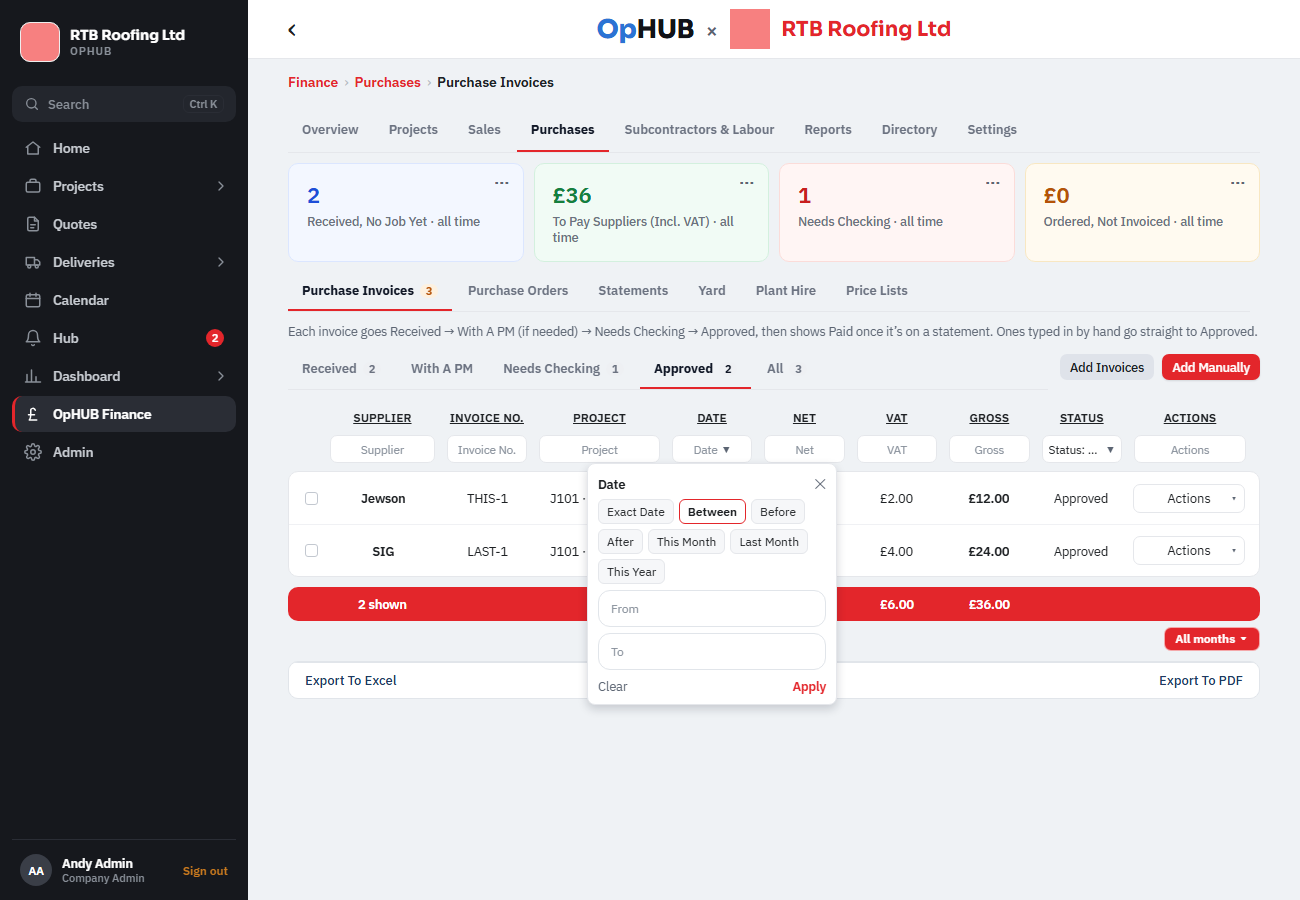
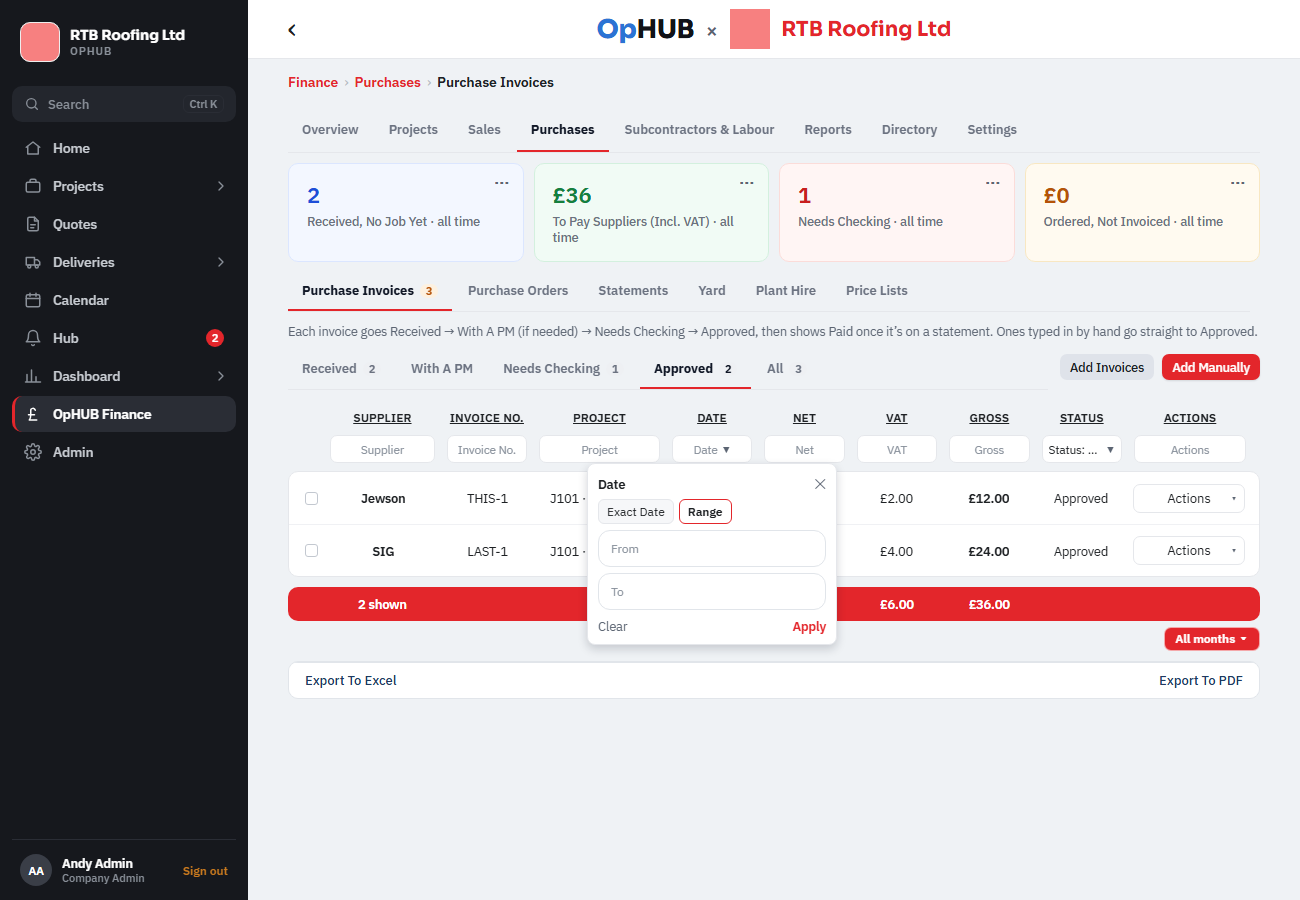
Finance tables (Andy, 6 Nov): the date filter is just Exact Date or Range (From / To; leave one blank for from / up to). Received's Status column has a tick-the-ones-you-want drop-down filter like the other tabs (filters can match a column's own words when the cell is a drop-down).
Claude-Session: https://claude.ai/code/session_012KhfNvBEbifMJmPdX7yZfp

Changed region(s): [[0.4308, 0.56, 0.6462, 0.8089]]

diff --git a/app-native/src/components/FinTable.tsx b/app-native/src/components/FinTable.tsx
@@ -18,16 +18,17 @@ import { base, useTheme } from '@/theme/theme';
 // pick: a one-choice drop-down filter, each choice with its own test (e.g. date ranges); the first is "any".
 // total: what the totals bar shows under this column. off: hidden until ticked in ⚙ Columns; lock: can't be hidden.
 // date: the row's date (yyyy-mm-dd) for the date filter. A date column (its heading says Date, Due, Hire…, and it sorts by
-// yyyy-mm-dd) gets it by itself (Andy, 6 Nov 2026: filter a date by an exact day, between two, before, after, this month…).
+// yyyy-mm-dd) gets it by itself (Andy, 6 Nov 2026: filter a date by an exact day or a range).
+// text: the words the filters match on, when the cell itself is a box or a drop-down.
 export type FinPick<T> = { v: string; l: string; test?: (r: T) => boolean };
 export type FinCol<T> = {
   k: string; l: string; flex?: number; min?: number; render: (r: T) => ReactNode; sort?: (r: T) => string | number | null | undefined; choices?: string[]; noSort?: boolean;
   match?: (r: T, q: string) => boolean; ph?: string; pick?: FinPick<T>[]; total?: (shown: T[]) => ReactNode; off?: boolean; lock?: boolean;
-  date?: (r: T) => string | null | undefined;
+  date?: (r: T) => string | null | undefined; text?: (r: T) => string;
 };
 /** A date filter: an exact day, between two, before / after one, or this / last month, this year. */
 export type DateF = { mode: '' | 'on' | 'between' | 'before' | 'after' | 'month' | 'lastmonth' | 'year'; a?: string; b?: string };
-const DATE_MODES: [DateF['mode'], string][] = [['', 'Any Date'], ['on', 'Exact Date'], ['between', 'Between'], ['before', 'Before'], ['after', 'After'], ['month', 'This Month'], ['lastmonth', 'Last Month'], ['year', 'This Year']];
+const DATE_MODES: [DateF['mode'], string][] = [['', 'Any Date'], ['on', 'Exact Date'], ['between', 'Range']];
 const isoDay = (d: Date) => `${d.getFullYear()}-${String(d.getMonth() + 1).padStart(2, '0')}-${String(d.getDate()).padStart(2, '0')}`;
 /** The days a date filter covers, [from, to] (either can be open). */
 export function dateSpan(f: DateF, now = new Date()): [string, string] | null {
@@ -44,7 +45,7 @@ export function dateSpan(f: DateF, now = new Date()): [string, string] | null {
   }
 }
 const short = (iso?: string) => (iso ? new Date(`${iso}T12:00:00`).toLocaleDateString('en-GB', { day: 'numeric', month: 'short', year: '2-digit' }) : '…');
-const dateWord = (f: DateF | undefined) => (!f || !f.mode ? '' : f.mode === 'on' ? short(f.a) : f.mode === 'between' ? `${short(f.a)} – ${short(f.b)}` : f.mode === 'before' ? `Before ${short(f.a)}` : f.mode === 'after' ? `After ${short(f.a)}` : DATE_MODES.find((x) => x[0] === f.mode)?.[1] || '');
+const dateWord = (f: DateF | undefined) => (!f || !f.mode ? '' : f.mode === 'on' ? short(f.a) : f.mode === 'between' ? (f.a && !f.b ? `From ${short(f.a)}` : !f.a && f.b ? `To ${short(f.b)}` : `${short(f.a)} – ${short(f.b)}`) : f.mode === 'before' ? `Before ${short(f.a)}` : f.mode === 'after' ? `After ${short(f.a)}` : DATE_MODES.find((x) => x[0] === f.mode)?.[1] || '');
 const ISO = /^\d{4}-\d{2}-\d{2}/;
 const DATE_HEAD = /\b(date|due|hire|issued|received|paid|start|sent|raised|valuation|expir)/i;
 export type { FinSort };
@@ -100,7 +101,7 @@ export function FinTable<T>({ cols: allCols, rows, keyOf, onRow, foot, onMenu, d
   const on = cols.filter((c) => !c.choices && !isPick(c) && !dateOf(c) && q[c.k]?.trim()).map((c) => ({ c, raw: q[c.k].trim(), q: q[c.k].trim().toLowerCase() }));
   const onPicks = cols.filter((c) => c.choices && picks[c.k]?.length).map((c) => ({ c, want: picks[c.k].map((x) => x.toLowerCase()) }));
   const onOne = cols.filter((c) => isPick(c) && picks[c.k]?.[0]).map((c) => c.pick!.find((p) => p.v === picks[c.k][0])).filter((p): p is FinPick<T> => !!p?.test);
-  const cellText = (c: FinCol<T>, r: T) => nodeText(c.render(r)).toLowerCase().replace(/\s+/g, ' ');
+  const cellText = (c: FinCol<T>, r: T) => (c.text ? c.text(r) : nodeText(c.render(r))).toLowerCase().replace(/\s+/g, ' ');
   const typedHit = (f: { c: FinCol<T>; raw: string; q: string }, r: T) => (f.c.match ? f.c.match(r, f.raw) : cellText(f.c, r).includes(f.q));
   const filtered = on.length || onPicks.length || onOne.length || onDates.length ? rows.filter((r) => on.every((f) => typedHit(f, r)) && onPicks.every((f) => f.want.some((w) => choiceHit(cellText(f.c, r), w))) && onOne.every((p) => p.test!(r)) && onDates.every((x) => dateHit(x, r))) : rows;
   const tick = (k: string, v: string) => { const cur = picks[k] || []; setPicks({ ...picks, [k]: cur.includes(v) ? cur.filter((x) => x !== v) : [...cur, v] }); };

diff --git a/tools/test-harness/datefilter-check.js b/tools/test-harness/datefilter-check.js
@@ -1,5 +1,5 @@
-// Finance tables (Andy, 6 Nov 2026): a date column's filter is a date filter: an exact day, between two, before, after,
-// this month, last month or this year, with calendars. Checked on Purchases › Approved. Fake database only.
+// Finance tables (Andy, 6 Nov 2026): a date column's filter is a date filter: an exact day
+// with a calendar, or a range (From / To calendars). Checked on Purchases › Approved. Fake database only.
 // node datefilter-check.js
 const {chromium, makeContext} = require('./harness');
 const seed = require('./fresh/seed');
@@ -22,17 +22,11 @@ const check = (ok, what) => { console.log((ok ? 'PASS ' : 'FAIL ') + what); if (
   const f = page.getByLabel('Filter Date', {exact: true});
   check(await f.count() === 1, 'the Date column has a date filter, not a typing box');
   await f.click(); await page.waitForTimeout(400);
-  check(['Exact Date', 'Between', 'Before', 'After', 'This Month', 'Last Month', 'This Year'].every(async () => true) && await page.getByText('Between', {exact: true}).count() === 1 && await page.getByText('Last Month', {exact: true}).count() === 1, 'it offers Exact Date, Between, Before, After, This Month, Last Month, This Year');
-  await page.getByText('Between', {exact: true}).click(); await page.waitForTimeout(300);
-  check(await page.getByLabel('From', {exact: true}).count() >= 1 && await page.getByLabel('To', {exact: true}).count() >= 1, 'Between gives From and To calendars');
+  check(await page.getByText('Exact Date', {exact: true}).count() === 1 && await page.getByText('Range', {exact: true}).count() === 1 && await page.getByText('Last Month', {exact: true}).count() === 0, 'just two choices: Exact Date or Range');
+  await page.getByText('Range', {exact: true}).click(); await page.waitForTimeout(300);
+  check(await page.getByLabel('From', {exact: true}).count() >= 1 && await page.getByLabel('To', {exact: true}).count() >= 1, 'Range gives From and To calendars');
   await page.screenshot({path: 'shots/job/datefilter-1300.png'});
-  await page.getByText('This Month', {exact: true}).click(); await page.getByText('Apply', {exact: true}).click(); await page.waitForTimeout(500);
-  check(await page.getByText('THIS-1', {exact: true}).count() === 1 && await page.getByText('LAST-1', {exact: true}).count() === 0, 'This Month shows only this month’s');
-  await f.click(); await page.waitForTimeout(300); await page.getByText('Last Month', {exact: true}).click(); await page.getByText('Apply', {exact: true}).click(); await page.waitForTimeout(500);
-  check(await page.getByText('LAST-1', {exact: true}).count() === 1 && await page.getByText('THIS-1', {exact: true}).count() === 0, 'Last Month shows only last month’s');
-  check(await page.getByLabel('Filter Date', {exact: true}).textContent().then((t) => /Last Month/.test(t)), 'the filter box says Last Month');
-  await f.click(); await page.waitForTimeout(300); await page.getByText('Clear', {exact: true}).click(); await page.waitForTimeout(500);
-  check(await page.getByText('LAST-1', {exact: true}).count() === 1 && await page.getByText('THIS-1', {exact: true}).count() === 1, 'Clear shows them all again');
+  await page.getByText('Clear', {exact: true}).click(); await page.waitForTimeout(300);
   check(!errs.length, `no errors ${errs.slice(0, 2).join(' | ')}`);
   await browser.close();
 })();

diff --git a/app-native/src/components/FinPurchases.tsx b/app-native/src/components/FinPurchases.tsx
@@ -351,7 +351,7 @@ export function PurchasesLists({ tab, siteId, f: f0 }: { tab: 'orders' | 'invoic
                     { k: 'no', l: 'Invoice No.', render: (it: Row) => <Cell>{it.extracted?.invoice_no || '—'}</Cell> },
                     { k: 'd', l: 'Date', sort: (it: Row) => String(it.extracted?.date || it.received_at || ''), render: (it: Row) => <Cell>{it.extracted?.date ? fdate(it.extracted.date) : '—'}</Cell> },
                     { k: 'g', l: 'Gross', sort: (it: Row) => Number(it.extracted?.total || 0), total: (l: Row[]) => money(l.reduce((t, it) => t + Number(it.extracted?.total || 0), 0)), render: (it: Row) => <Cell>{it.extracted?.total != null ? money(it.extracted.total) : '—'}</Cell> },
-                    { k: 'w', l: 'Status', flex: 1.1, min: 120, render: (it: Row) => (cur !== 'pm' && !it.site_id && !unread(it)
+                    { k: 'w', l: 'Status', flex: 1.1, min: 120, text: (it: Row) => whyOf(it), choices: Array.from(new Set(items.map(whyOf))), render: (it: Row) => (cur !== 'pm' && !it.site_id && !unread(it)
                       ? <View onStartShouldSetResponder={() => true} onResponderTerminationRequest={() => false} {...({ onClick: (e: { stopPropagation: () => void }) => e.stopPropagation() } as object)} style={{ width: 150, alignSelf: 'center' }}><TypePick label={`Choose the job for ${it.extracted?.invoice_no || 'this invoice'}`} value="" placeholder="Needs a job" options={jobPickOpts} listWidth={300} onChange={(v) => void setJob(it, v)} style={{ borderWidth: 1, borderColor: '#f8e7c2', backgroundColor: '#fffaf0', borderRadius: 7, paddingHorizontal: 8, paddingVertical: 5, fontSize: 13, color: '#B35A00' }} /></View>
                       : <Text numberOfLines={1} style={{ fontSize: 13, color: '#B35A00', textAlign: 'center' }}>{whyOf(it)}</Text>) },
                     { k: 'a', l: 'Actions', min: 124, noSort: true, render: (it: Row) => <ActionsCell items={[

diff --git a/tools/test-harness/recv-shots.js b/tools/test-harness/recv-shots.js
@@ -28,6 +28,9 @@ const check = (ok, what) => { console.log((ok ? 'PASS ' : 'FAIL ') + what); if (
   await page.getByLabel('Actions', {exact: true}).first().click(); await page.waitForTimeout(400);
   check(await page.getByText('Send To PM', {exact: true}).count() === 1 && await page.getByText('Edit', {exact: true}).count() === 1 && new URL(page.url()).pathname === '/fin/purchases', 'it lists Edit, Send To PM and the rest, and stays on the list');
   await page.keyboard.press('Escape'); await page.mouse.click(5, 5); await page.waitForTimeout(300);
+  await page.getByLabel('Filter Status', {exact: true}).click(); await page.waitForTimeout(300); await page.getByLabel('Unable to read', {exact: true}).click(); await page.getByText('Done', {exact: true}).last().click(); await page.waitForTimeout(400);
+  check(await page.getByText('Unable to read', {exact: true}).count() >= 1 && await page.getByLabel(/^Choose the job for/).count() === 0, 'the Status filter shows just Unable to read');
+  await page.getByLabel('Filter Status', {exact: true}).click(); await page.waitForTimeout(300); await page.getByLabel('Unable to read', {exact: true}).click(); await page.getByText('Done', {exact: true}).last().click(); await page.waitForTimeout(400);
   await page.screenshot({path: 'shots/job/recv-1300.png'}); const jp = page.getByLabel(/^Choose the job for/).first(); console.log('job box', JSON.stringify(await jp.boundingBox())); await jp.click(); await jp.fill('J1'); await page.waitForTimeout(400); await page.keyboard.press('Tab'); await page.waitForTimeout(1200);
   check(db.fin_inbox.some((i) => i.site_id && i.status === 'new'), 'typing the job number and Tab sets the job right there');
   // Opening it: that job is on every line (6 Nov 2026).
